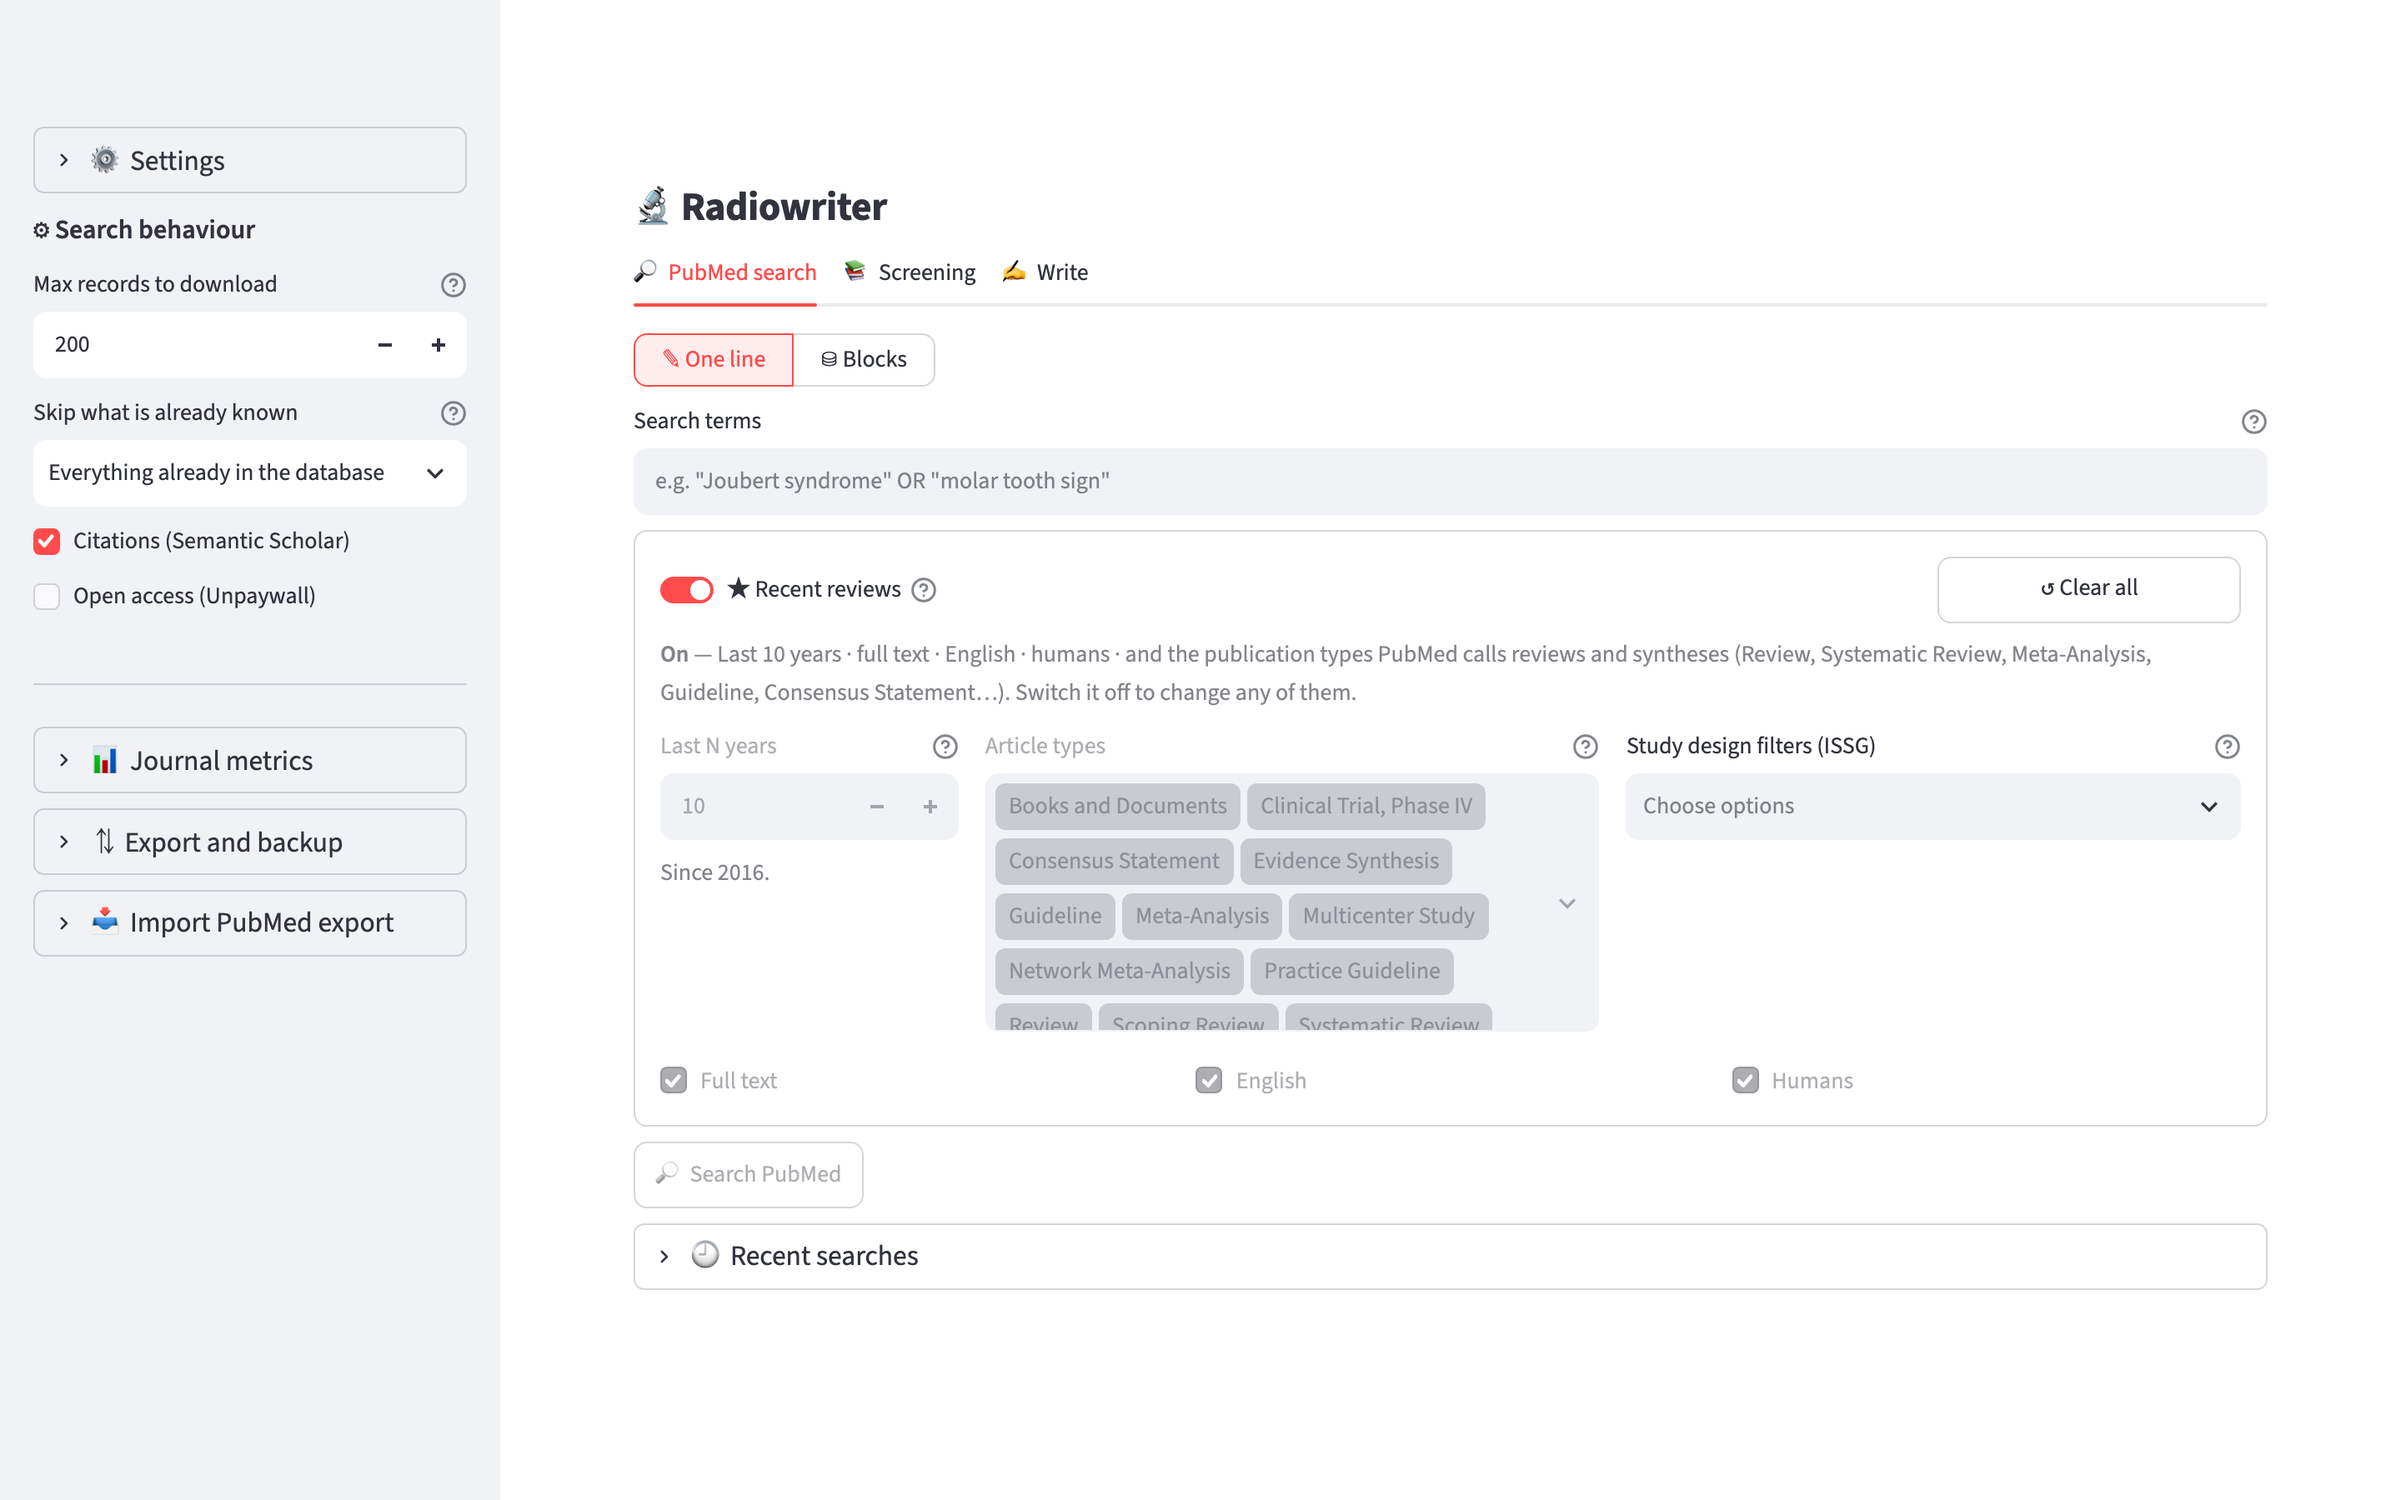
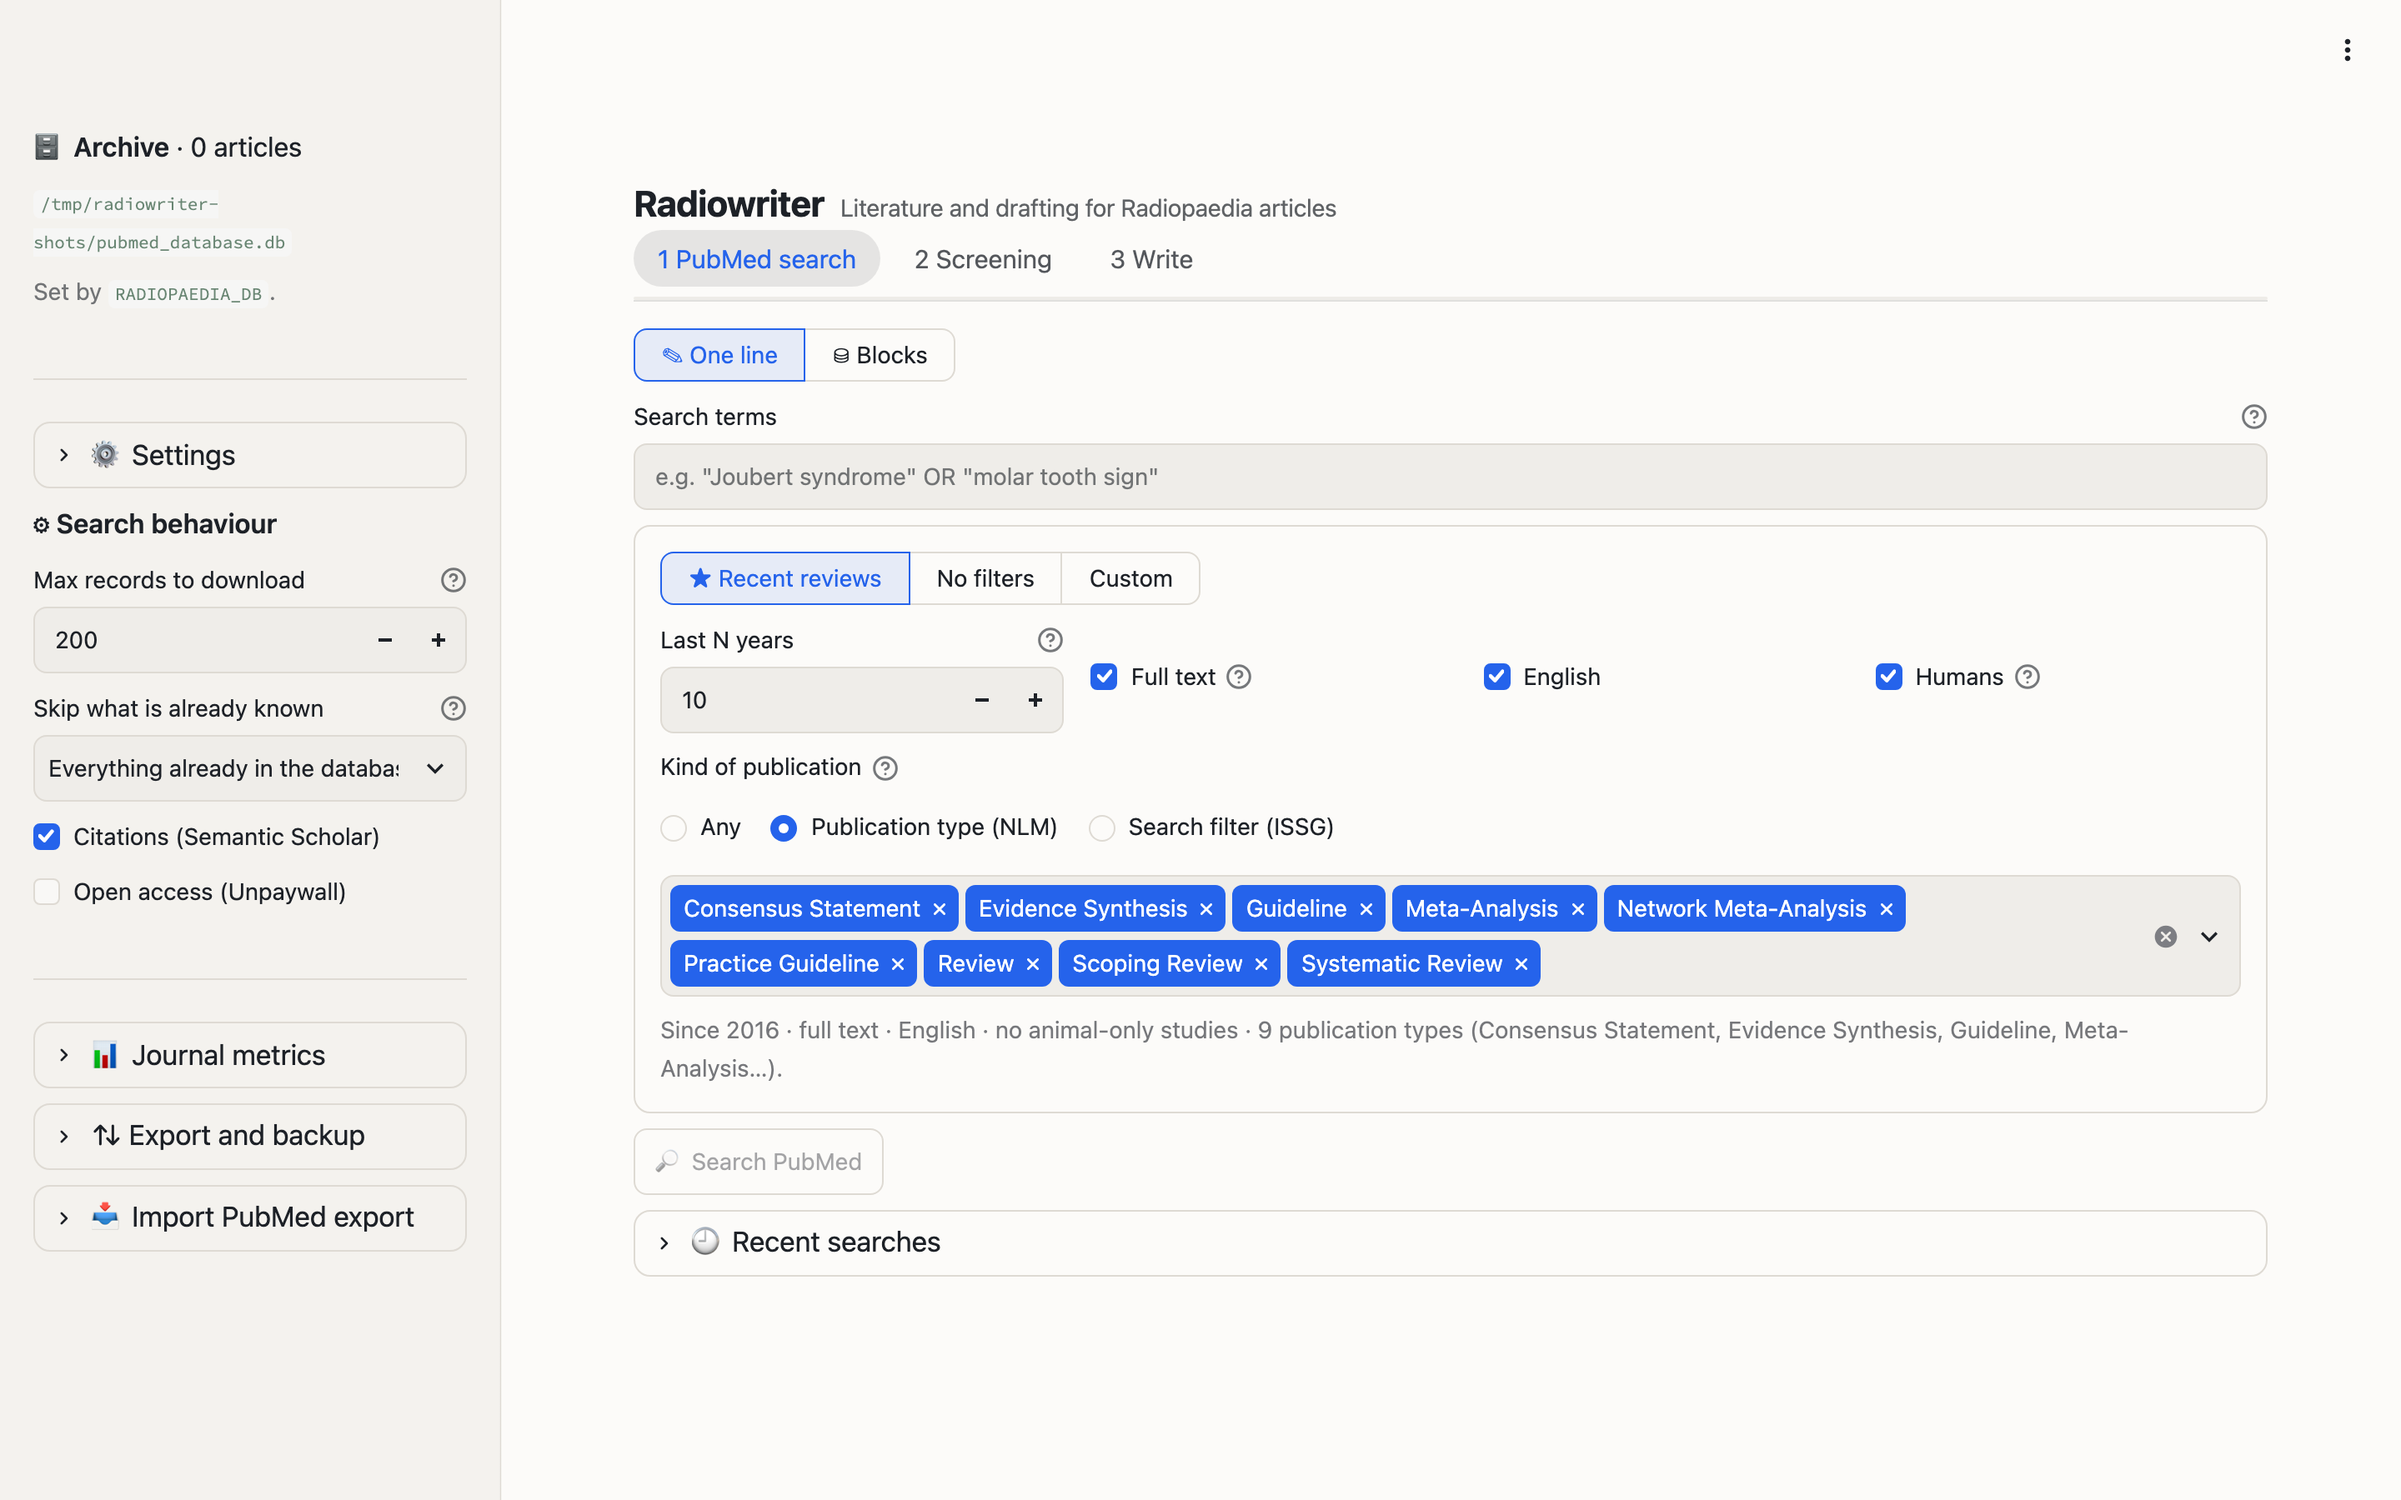
Retake the screenshots for the new look
Le sei schermate delle docs mostravano ancora il tema di Streamlit e il
vecchio interruttore dei filtri. Rifatte con `scripts/shots.py`, che nello
Screening ora apre gli abstract e cerca una parola: e' come si legge davvero
l'archivio, e mostra l'impaginazione e l'evidenziazione invece di una fila di
expander chiusi.

E una frase vecchia che si vedeva nella foto dei risultati: rimandava a
"Check open access with Unpaywall in Filters", una casella che adesso si
chiama "Open access (Unpaywall)" e sta nella barra laterale.

diff --git a/scripts/shots.py b/scripts/shots.py
@@ -129,12 +129,20 @@ def take(page) -> None:
     settle(page, 5)
     page.get_by_role("tab", name="Screening", exact=False).click()
     settle(page, 5)
-    page.mouse.wheel(0, 480)
+    # Gli abstract aperti e una parola cercata: e' come si legge davvero
+    # l'archivio, e cosi' la schermata mostra l'impaginazione degli abstract e
+    # l'evidenziazione, non una fila di expander chiusi.
+    page.get_by_label("Search title, abstract or PMID", exact=False).fill("Joubert")
+    page.keyboard.press("Enter")
+    settle(page, 3)
+    page.get_by_text("Abstracts open", exact=True).last.click()
+    settle(page, 4)
+    page.mouse.wheel(0, 560)
     settle(page, 2)
     shoot(page, "04-screening")
 
     # --- la scrittura -------------------------------------------------------
-    page.mouse.wheel(0, -480)
+    page.mouse.wheel(0, -560)
     settle(page)
     page.get_by_role("tab", name="Write", exact=False).click()
     settle(page, 3)

diff --git a/radiowriter/app.py b/radiowriter/app.py
@@ -1108,7 +1108,7 @@ def results_filters(records: list[dict], metric_of, status_by_pmid: dict,
             else:
                 f_oa = False
                 st.caption("Open access: not looked up for these records — "
-                           "tick *Check open access with Unpaywall* in Filters "
+                           "tick *Open access (Unpaywall)* in the sidebar "
                            "before searching.")
             f_cites = st.number_input(
                 "At least this many citations", 0, 10000, step=1,
